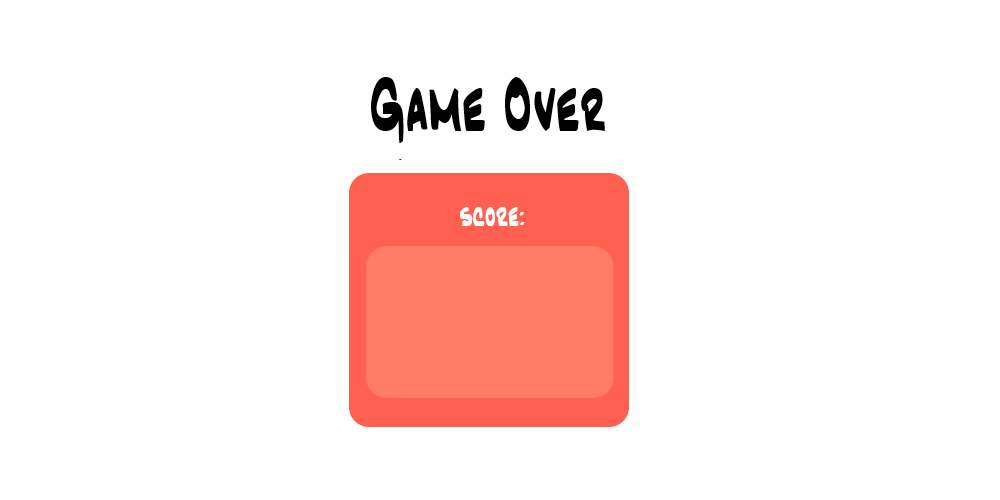
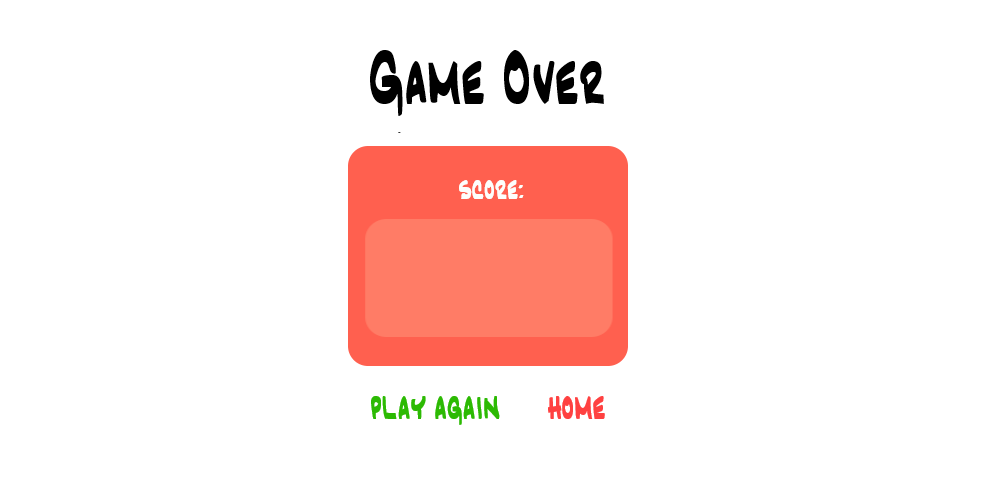
add end screen function

Changed region(s): [[0.341, 0.09, 0.651, 0.51], [0.341, 0.66, 0.651, 0.87]]

diff --git a/src/sketch.js b/src/sketch.js
@@ -98,6 +98,17 @@ function game(){
 
 function gameOver(){
 	image(endscreen, 0, 0);
+
+	//highlight buttons if mouseover
+	if(mouseX>=360.5 && mouseX<=483.5 && mouseY>=391 && mouseY<=408){
+		noStroke();
+		fill(250, 80);
+		rect(360, 391, 160, 30, 20);
+	}
+	else if(mouseX>=538.4 && mouseX<=590.5 && mouseY>=391 && mouseY<=408){
+		fill(250, 80);
+		rect(538, 391, 130, 30, 20);
+	}
 }
 
 function pauseScreen(){
@@ -125,10 +136,14 @@ function windowResized(){
 function mouseClicked(){
 
 	if(paused){
+
+		//if click resume, resume game
 		if(mouseX>=416 && mouseX<=536 && mouseY>=258 && mouseY<=285){
 			gameMode = 1;
 			paused = false;
 		}
+
+		//if click quit button, go to home page
 		else if(mouseX>=437 && mouseX<=509.5 && mouseY>=336 && mouseY<=358){
 			gameMode = 0;
 			paused = false;
@@ -136,6 +151,7 @@ function mouseClicked(){
 	}
 
 	//if click start button, start game
+	//***TODO: reset all variables
 	else if(gameMode===0){
 		if(mouseX>=434.5 && mouseX<=583.5 && mouseY>=391 && mouseY<=443){
 			gameMode = 1;
@@ -144,13 +160,23 @@ function mouseClicked(){
 
 	else if(gameMode===2){
 
+		//if click play again button, start new game
+		//***TODO: reset all variables
+		if(mouseX>=360.5 && mouseX<=483.5 && mouseY>=391 && mouseY<=408){
+			gameMode = 1;
+		}
+
+		//if click home button, go to start screen
+		else if(mouseX>=538.4 && mouseX<=590.5 && mouseY>=391 && mouseY<=408){
+			gameMode = 0;
+		}
 	}
 
 }
 
 function keyPressed(){
 
-	//when spacebar pressed, pause game
+	//if spacebar pressed, pause game
 	if(keyCode == 32 && gameMode==1){
 		paused = true;
 	}
